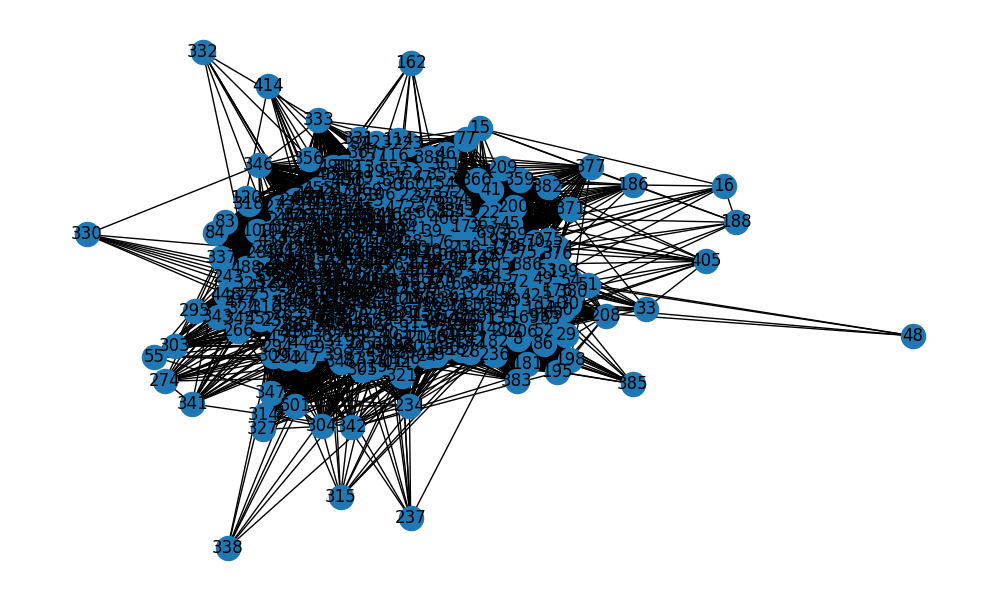
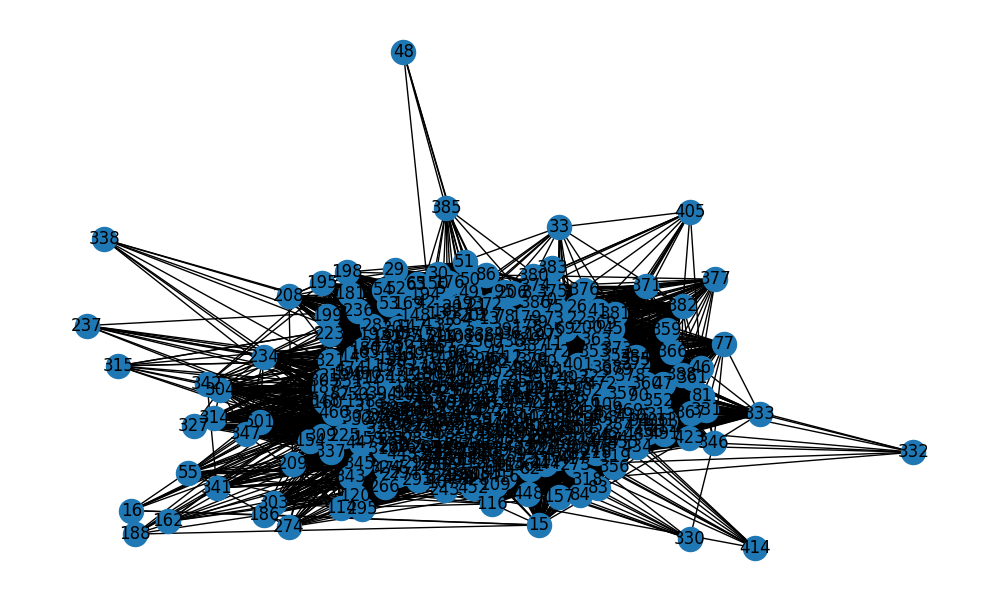
d

diff --git a/apps/graph_embedding.py b/apps/graph_embedding.py
@@ -1,0 +1,101 @@
+import matplotlib.pyplot as plt
+from openai import OpenAI
+import networkx as nx
+import numpy as np
+from concurrent.futures import ProcessPoolExecutor
+from tqdm import tqdm
+from sklearn.metrics.pairwise import cosine_similarity
+import hashlib
+import os
+import json
+
+CACHE_PATH = 'embedding_cache.json'
+
+client = OpenAI(api_key=os.getenv("OPENAI_API_KEY"))
+
+if os.path.exists(CACHE_PATH):
+    with open(CACHE_PATH, 'r') as f:
+        embedding_cache = json.load(f)
+
+else:
+    embedding_cache = {}
+
+def get_openai_embedding(text):
+    global embedding_cache
+
+    text_hash = hashlib.sha256(text.encode('utf-8')).hexdigest()
+
+    if text_hash in embedding_cache:
+        return np.array(embedding_cache[text_hash])
+
+    response = client.embeddings.create(model="text-embedding-3-small",
+    input=[text])
+
+    embedding = np.array(response.data[0].embedding)
+
+    embedding_cache[text_hash] = embedding.tolist()
+
+    with open(CACHE_PATH, "w") as f:
+        json.dump(embedding_cache, f)
+
+    return embedding
+
+def compute_edge_cosine(args):
+    u, w, text_u, text_w = args
+    try:
+        embedding_u = get_openai_embedding(text_u)
+        embedding_w = get_openai_embedding(text_w)
+
+        similarity = cosine_similarity([embedding_u], [embedding_w])[0, 0]
+        return u, w, similarity
+    except Exception as e:
+        print(f'Error processing edge {u}-{w}: {e}')
+        return None
+
+def graph_openai_embedding(materials):
+    G = nx.Graph()
+
+    for node_id, data in materials.items():
+        G.add_node(node_id, label=node_id, text=data.get("text"))
+
+    nodes = list(materials.keys())
+
+    edge_args = [(u, w, G.nodes[u]["text"], G.nodes[w]["text"]) for i, u in enumerate(nodes) for w in nodes[i+1:]]
+
+    with ProcessPoolExecutor() as executor:
+        for result in tqdm(executor.map(compute_edge_cosine, edge_args), total=len(edge_args)):
+            if result:
+                u, w, weight = result
+                G.add_edge(u, w, weight=weight)
+
+    isolated_nodes = list(nx.isolates(G))
+    G.remove_nodes_from(isolated_nodes)
+
+    print(f"ノード数: {G.number_of_nodes()}, エッジ数: {G.number_of_edges()}")
+
+    plt.figure(figsize=(10,6))
+    nx.draw(G, with_labels=True)
+    plt.savefig("out/embedding_graph.png")
+    nx.write_gml(G, "out/embedding_graph.gml")
+    plt.close()
+
+    return G
+
+if __name__=="__main__":
+    test_materials = {
+       'doc1': {'text': '象は鼻が長い動物です。'},
+       'doc2': {'text': '象の鼻は長く、様々な用途に使われます。'},  # 類似文書
+       'doc3': {'text': '象は大きな体を持つ哺乳類です。'}
+   }
+
+    # グラフの生成をテスト
+    G = graph_openai_embedding(test_materials)
+
+    # 基本的な検証
+    assert G.number_of_nodes() >= 2, "グラフは最低2つのノードが必要です"
+    assert G.number_of_edges() >= 1, "グラフは最低1つのエッジが必要です"
+    
+    print("\nグラフの基本情報:")
+    print(f"ノード数: {G.number_of_nodes()}")
+    print(f"エッジ数: {G.number_of_edges()}")
+    print(G.nodes(data=True))

diff --git a/apps/main.py b/apps/main.py
@@ -3,6 +3,7 @@ import technical_term
 import networkx as nx
 import graph_jaccard
 import graph_tfidf
+import graph_embedding
 from find_path import find_max_weight_path
 
 raw_filepath = 'data/information1_raw.md'
@@ -14,22 +15,29 @@ technical_terms = technical_term.read_technical_term(technical_term_filepath)
 # G = graph_jaccard.graph_ave_jaccard_parallel(materials, technical_terms)
 # G = nx.read_gml("out/jaccard_ave_graph.gml", label=None)
 
-G = graph_jaccard.graph_remove_outliers_jaccard_parallel(materials, technical_terms)
+# G = graph_jaccard.graph_remove_outliers_jaccard_parallel(materials, technical_terms)
 # G = nx.read_gml("out/jaccard_remove_outliers_graph.gml", label=None)
 
 # G = graph_tfidf.graph_ave_tfidf(materials, technical_term)
+
+G = graph_embedding.graph_openai_embedding(materials)
 
 print("\nグラフの基本情報:")
 print(f"ノード数: {G.number_of_nodes()}")
 print(f"エッジ数: {G.number_of_edges()}")
 
-start_text_id = "75"
-end_text_id = "135"
-path, weight = find_max_weight_path(G, start_text_id, end_text_id)
-path_labels = " -> ".join(str(G.nodes[node].get('label', node)) for node in path)
+# for i, node in enumerate(G.nodes(data=True)):
+#     print(node)
+#     if i == 10:
+#         break
 
-if path:
-    print(f"\n最大重みパス: {path_labels}")
-    print(f"総重み: {weight}")
-else:
-    print(f"\nパスが見つからなかった")
+# start_text_id = "75"
+# end_text_id = "135"
+# path, weight = find_max_weight_path(G, start_text_id, end_text_id)
+# path_labels = " -> ".join(str(G.nodes[node].get('label', node)) for node in path)
+
+# if path:
+#     print(f"\n最大重みパス: {path_labels}")
+#     print(f"総重み: {weight}")
+# else:
+#     print(f"\nパスが見つからなかった")

diff --git a/apps/find_path.py b/apps/find_path.py
@@ -41,14 +41,40 @@ def find_max_weight_path(G, start_text_id, end_text_id):
         return None, 0
     
 if __name__=='__main__':
-    G = nx.DiGraph()
-    G.add_node(1)
-    G.add_node(2)
-    G.add_node(3)
-    G.add_edge(1, 2, weight=5)
-    G.add_edge(2, 3, weight=3)
+    # テスト用の無向グラフを作成
+    G = nx.Graph()
 
-    path, weight = find_max_weight_path(G, 1, 2)
-    
-    print(f"見つかったパス: {path}")
+    # ノードを追加
+    nodes = [
+    (1, {"label": "A"}),
+    (2, {"label": "B"}), 
+    (3, {"label": "C"}),
+    (4, {"label": "D"}),
+    (5, {"label": "E"}),
+    (6, {"label": "F"})
+    ]
+    G.add_nodes_from(nodes)
+
+    # エッジを追加（複数のパスが存在するように）
+    edges = [
+        (1, 2, {"weight": 0.7}),
+        (2, 3, {"weight": 0.8}),
+        (3, 4, {"weight": 0.6}),
+        (4, 5, {"weight": 0.9}),
+        (5, 6, {"weight": 0.7}),
+        (1, 3, {"weight": 0.5}),
+        (2, 4, {"weight": 0.4}),
+        (3, 5, {"weight": 0.8}),
+        (4, 6, {"weight": 0.6}),
+        (1, 4, {"weight": 0.3})
+    ]
+    G.add_edges_from(edges)
+
+    # テスト実行
+    path, weight = find_max_weight_path(G, "B", "E")
+    print(f"パス: {path}")
     print(f"合計重み: {weight}")
+
+    # 存在しないノードのテスト
+    path, weight = find_max_weight_path(G, "X", "C")
+    print(f"存在しないノードのテスト - パス: {path}, 重み: {weight}")

diff --git a/apps/graph_jaccard.py b/apps/graph_jaccard.py
@@ -208,8 +208,6 @@ if __name__=="__main__":
     print(result)
     # 結果: ['ETC|ETCシステム|自動料金収受システム']
     
-    
-    
     terms1 = ["ETC|ETCシステム|自動料金収受システム", "トップダウンテスト", "トリプルメディア"]
     terms2 = ["ETC|ETCシステム|自動料金収受システム"]
     
